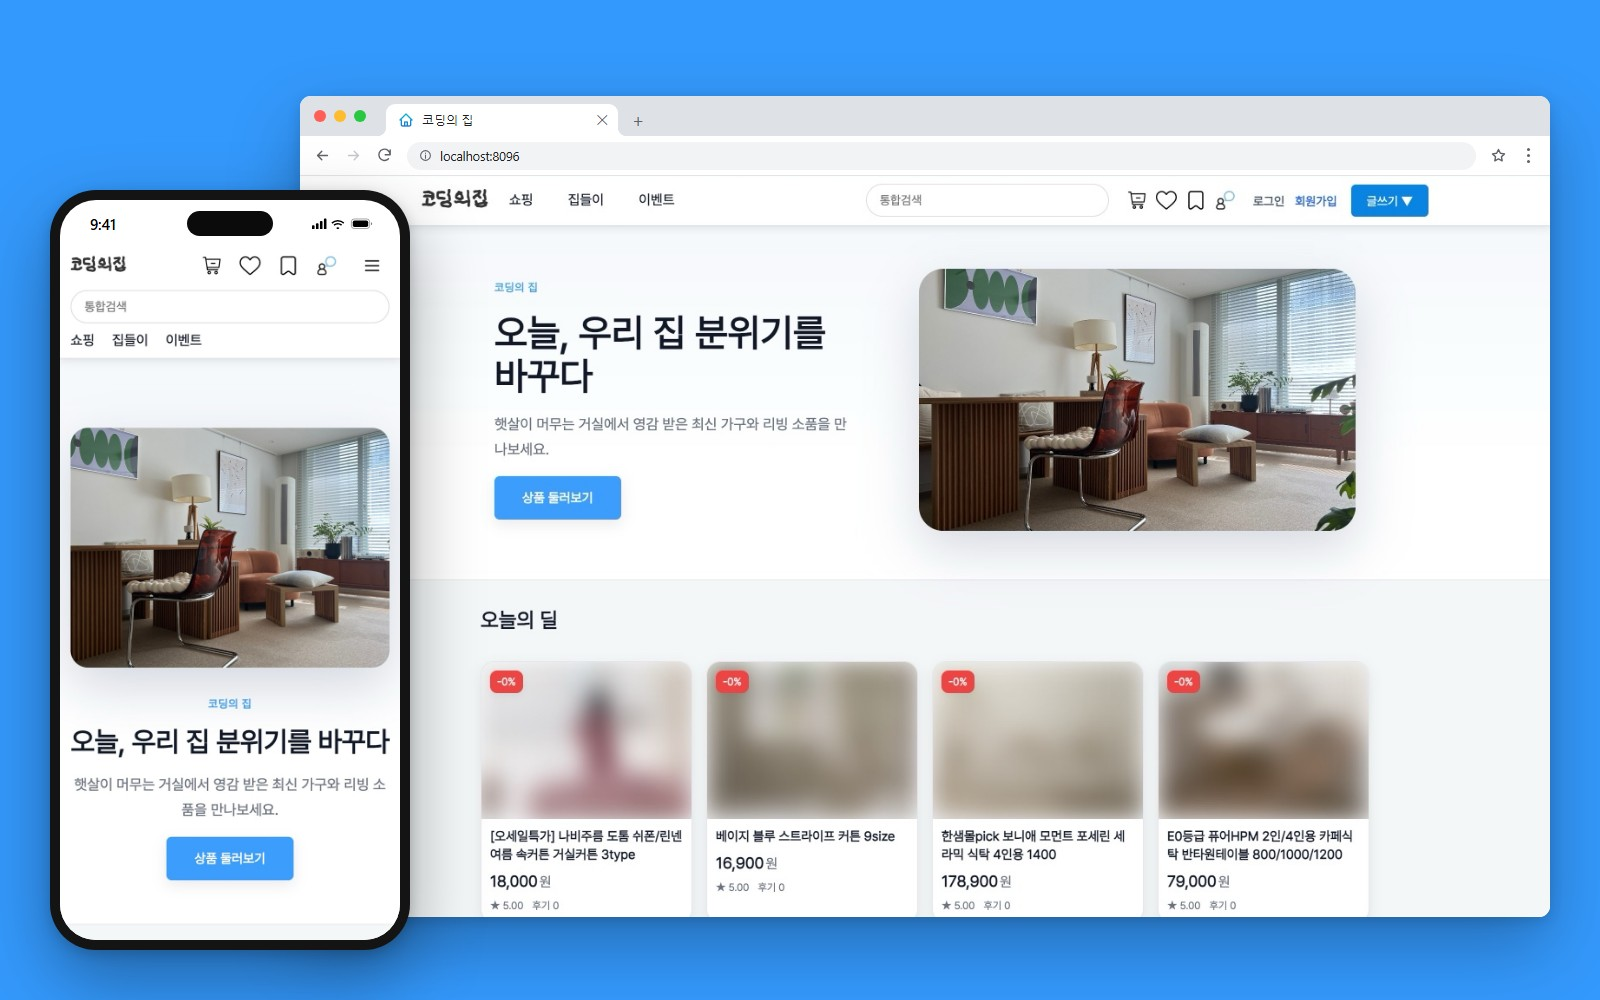
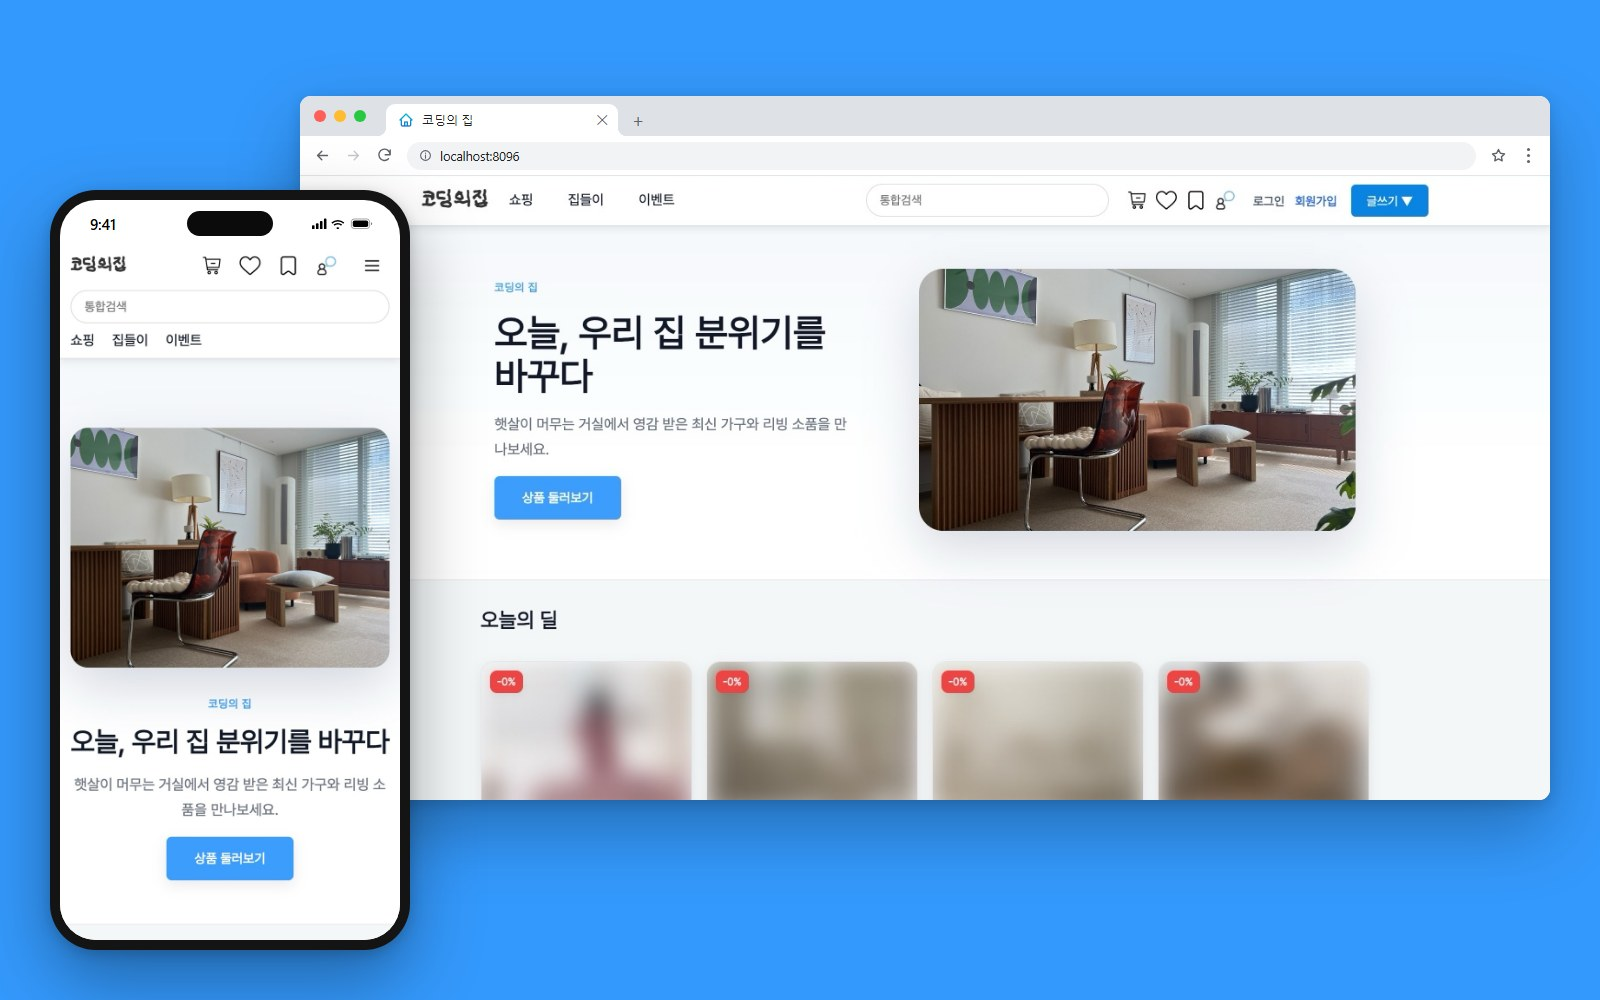
fix: GOTCHA · 코딩의 집 썸네일도 화면 둘러보기 버튼 자리 비움, GOTCHA 홈 카드는 홈용 썸네일

Changed region(s): [[0.2188, 0.775, 1.0, 0.961]]

diff --git a/src/components/HomeView.tsx b/src/components/HomeView.tsx
@@ -160,8 +160,9 @@ export default async function HomeView({ about, lang }: { about: AboutContent; l
           {featured.map((p, i) => {
             // 홈은 맛보기(이미지 + 한 줄 소개), 핵심 기능·내가 맡은 부분은 /projects 에서
             const lead = i === 0;
-            // 작은 카드는 크롬 창 하나짜리 썸네일(homeThumbnail)을 먼저 - 줄어도 화면 속 제목이 읽히게
-            const visual = (lead ? undefined : p.homeThumbnail) ?? p.thumbnail ?? p.logo;
+            // 홈은 홈용 썸네일(homeThumbnail)을 먼저 - 작은 카드는 크롬 창 하나짜리(줄어도 제목이 읽히게),
+            // 큰 카드는 휴대폰을 크게 (프로젝트 페이지용은 '화면 둘러보기' 버튼 자리를 비워 둔 구도)
+            const visual = p.homeThumbnail ?? p.thumbnail ?? p.logo;
             return (
               <Link
                 key={p.slug}

diff --git a/src/content/projects/ko.ts b/src/content/projects/ko.ts
@@ -30,6 +30,7 @@ export const PROJECTS_KO: (Project & { slug: ProjectSlug })[] = [
       { label: "Backend", url: "https://github.com/fcde-project9/GOTCHA-BE" },
     ],
     thumbnail: "/projects/thumb-gotcha.jpg",
+    homeThumbnail: "/projects/thumb-gotcha-home.jpg",
     mobileThumbPosition: "max-sm:object-center", // 휴대폰에서 썸네일을 자를 때 가운데 앱 화면이 잘리지 않게
     status: "released",
     device: "laptop",
